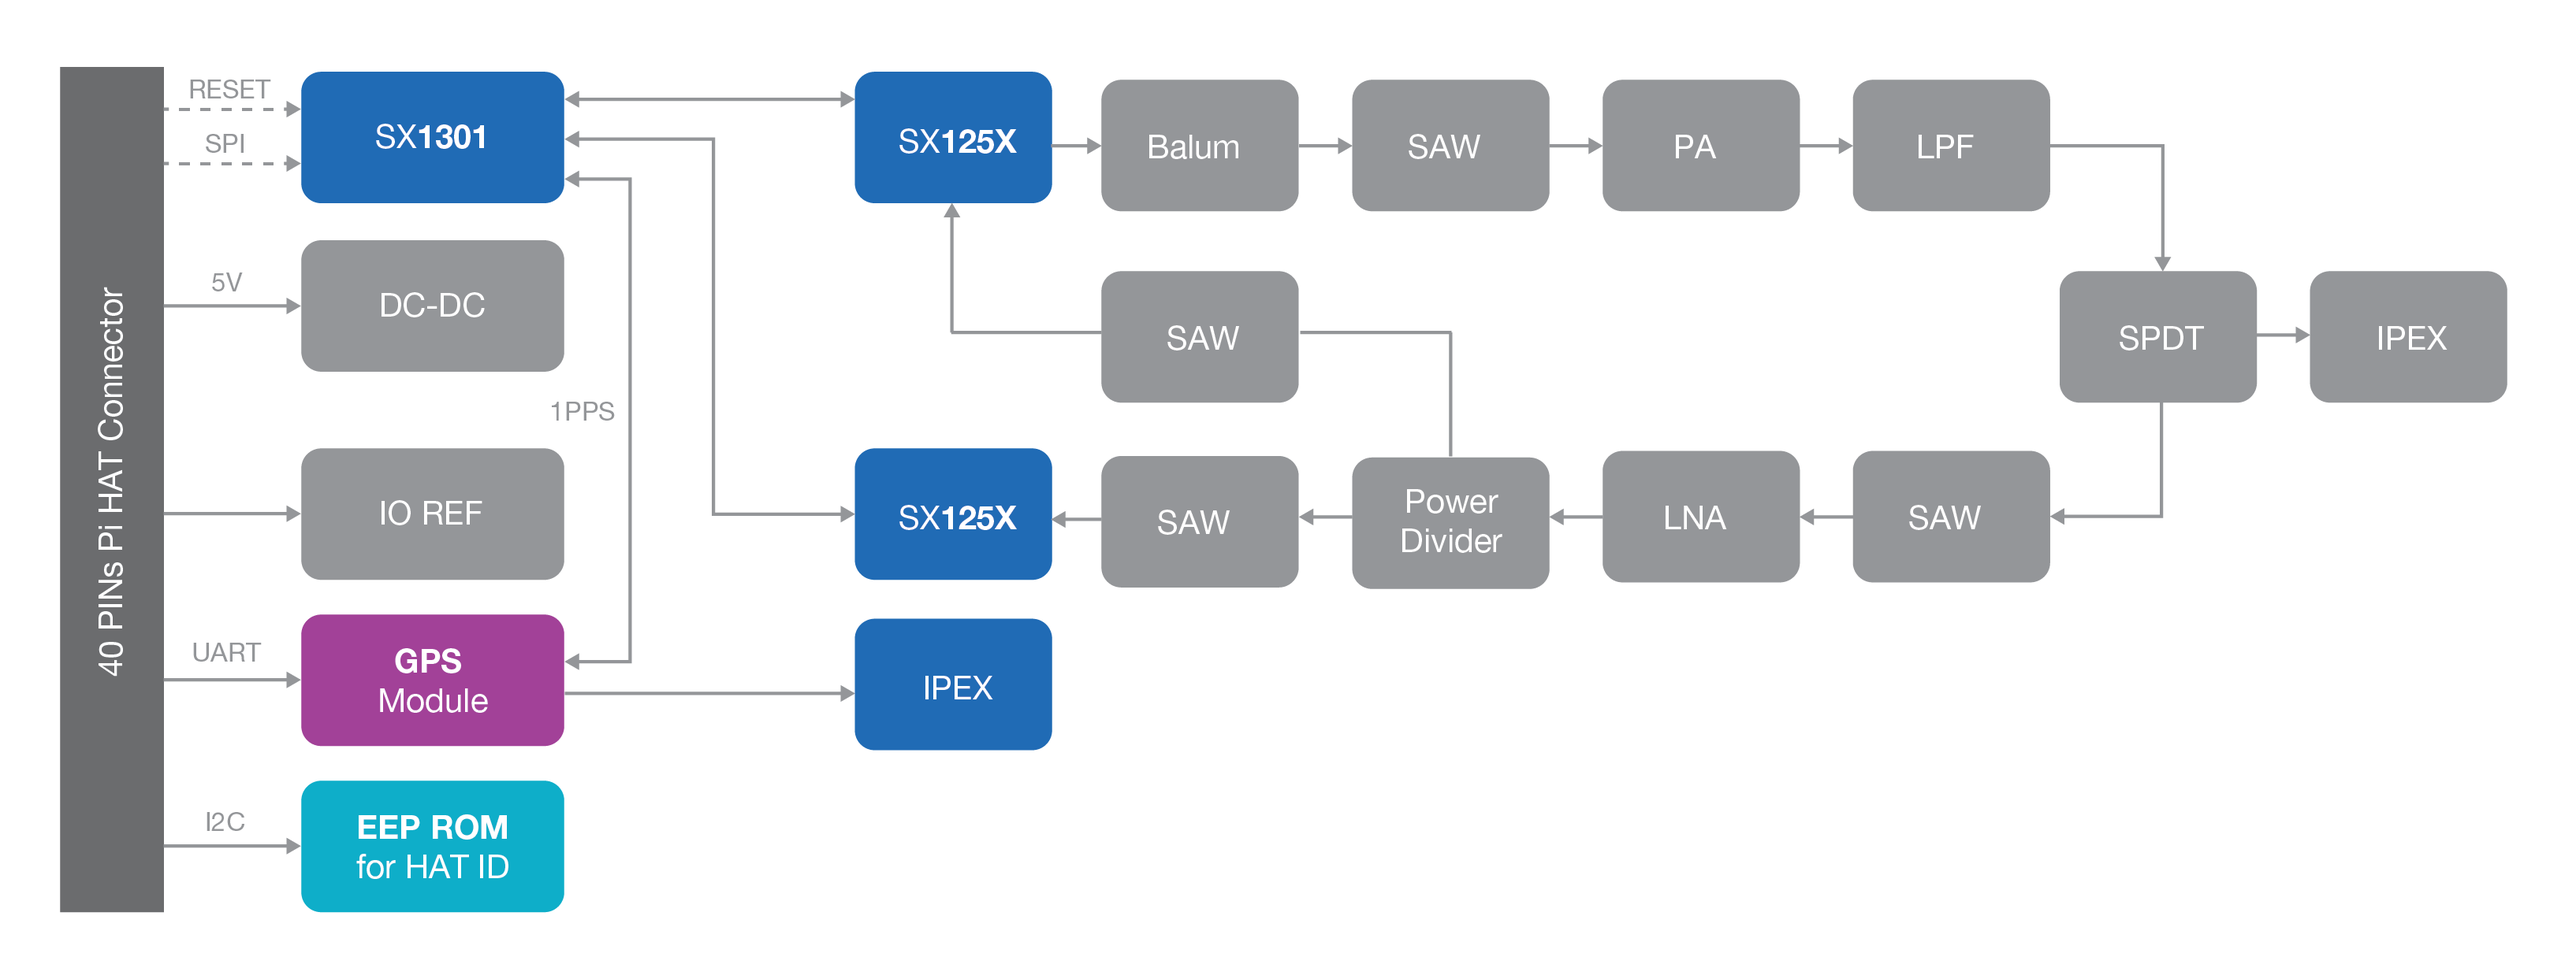
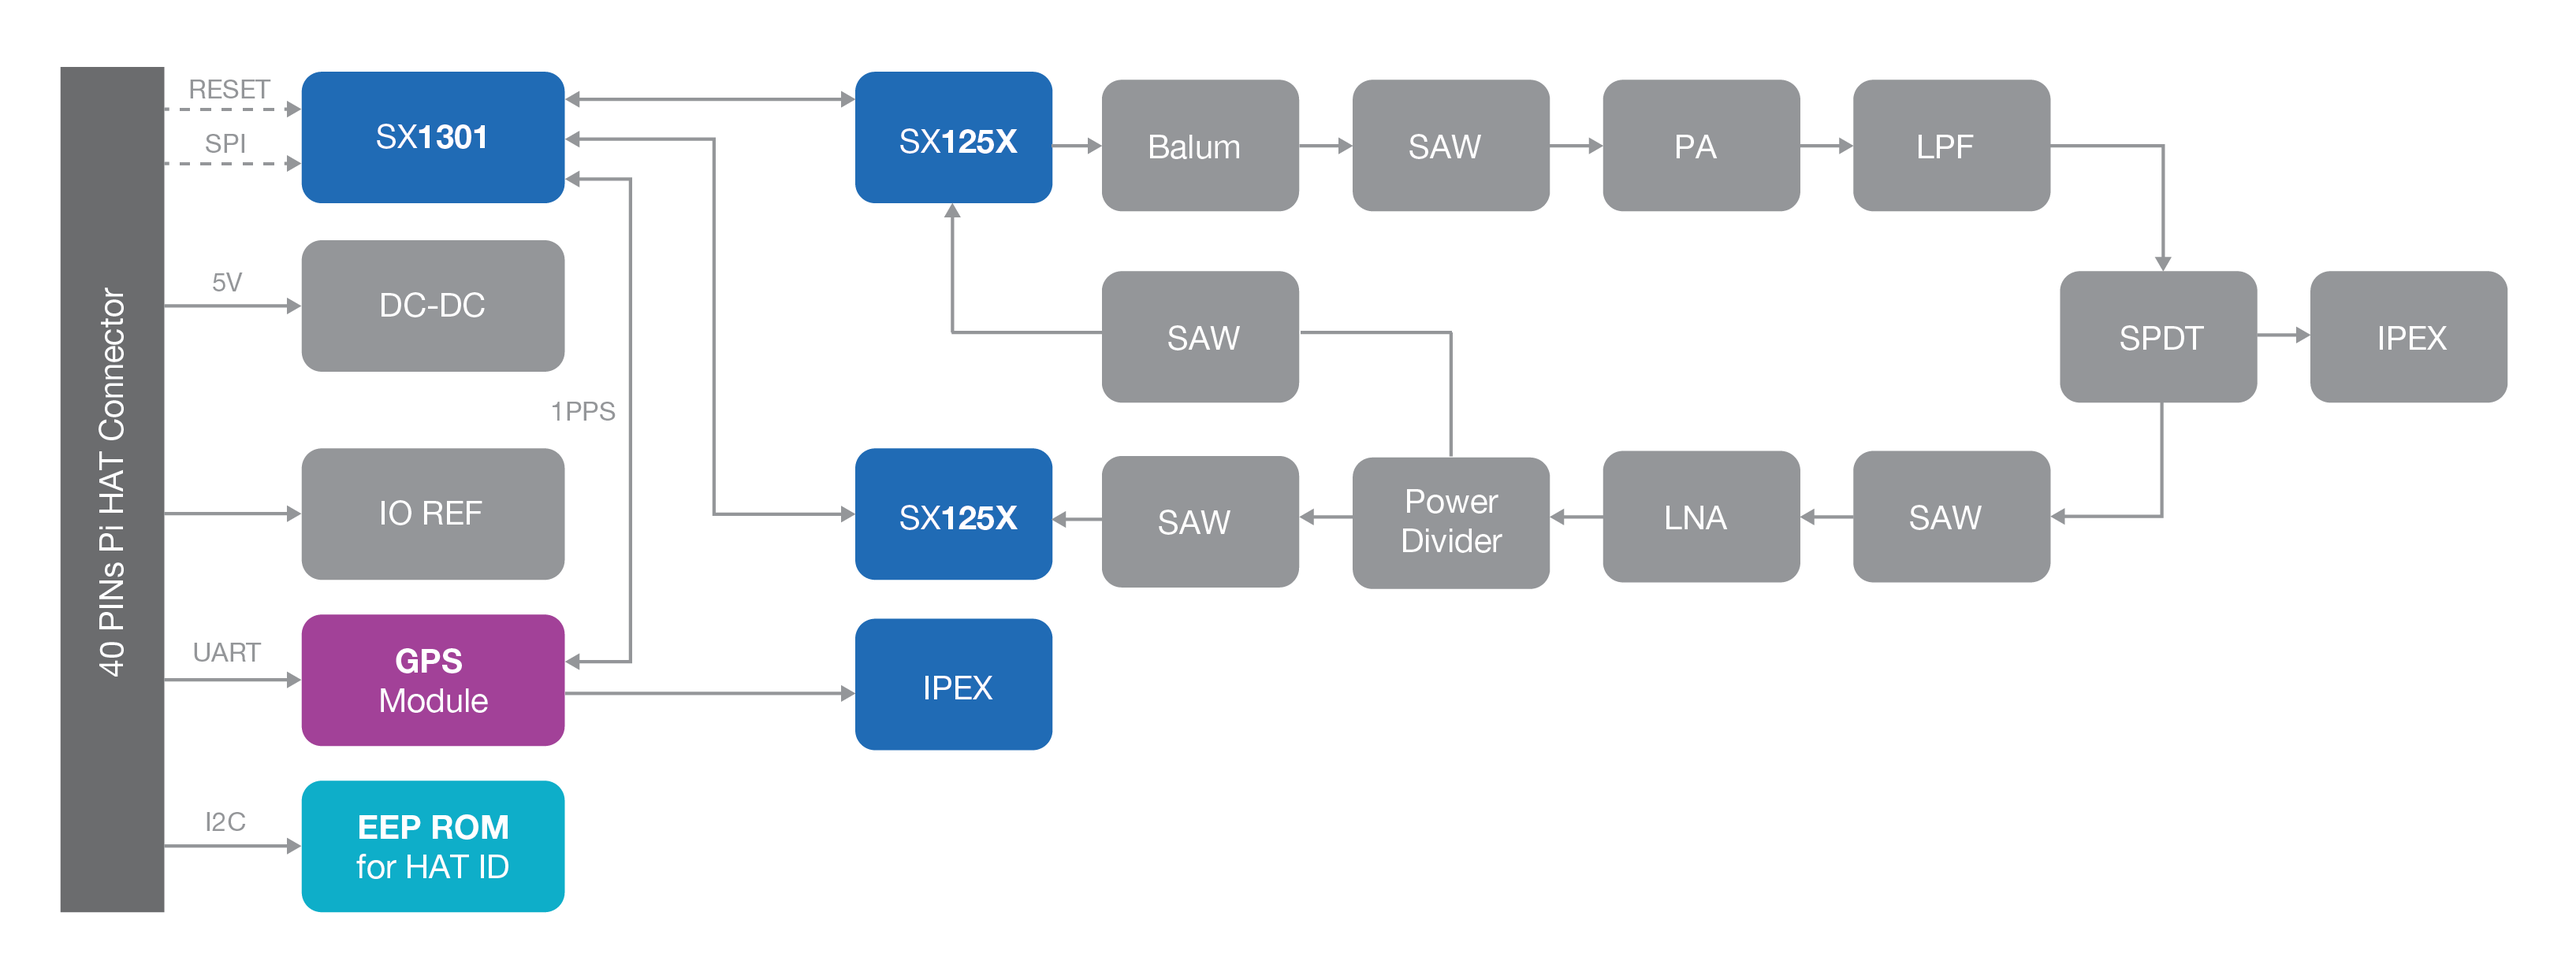
Updated the block diagram in all datasheet.

diff --git a/docs/en-us/datasheet/rak5205/schematics.md b/docs/en-us/datasheet/rak5205/schematics.md
@@ -3,83 +3,83 @@
 <rk-img
   src="/assets/images/datasheet/rak5205/rak5205-schematic-diagram-with-bq21040-chip.jpg"
   width="100%"
-  figure-number="16"
+  figure-number="17"
   caption="RAK5205 Schematic Diagram with BQ21040 chip"
 />
 
 <rk-img
   src="/assets/images/datasheet/rak5205/rak5205-schematic-diagram-with-rp104n331-chip.jpg"
   width="100%"
-  figure-number="17"
+  figure-number="18"
   caption="RAK5205 Schematic Diagram with RP104N331 chip"
 />
 
 <rk-img
   src="/assets/images/datasheet/rak5205/rak5205-schematic-diagram-with-cp2102-chip.jpg"
   width="100%"
-  figure-number="18"
+  figure-number="19"
   caption="RAK5205 Schematic Diagram with CP2102 chip"
 />
 
 <rk-img
   src="/assets/images/datasheet/rak5205/rak5205-schematic-diagram.jpg"
   width="100%"
-  figure-number="19"
+  figure-number="20"
   caption="RAK5205 Schematic Diagram"
 />
 
 <rk-img
   src="/assets/images/datasheet/rak5205/rak5205-schematic-diagram-2.jpg"
   width="60%"
-  figure-number="20"
+  figure-number="21"
   caption="RAK5205 Schematic Diagram"
 />
 
 <rk-img
   src="/assets/images/datasheet/rak5205/rak5205-schematic-diagram-3.jpg"
   width="60%"
-  figure-number="21"
+  figure-number="22"
   caption="RAK5205 Schematic Diagram"
 />
 
 <rk-img
   src="/assets/images/datasheet/rak5205/rak5205-schematic-diagram-4.jpg"
   width="60%"
-  figure-number="22"
+  figure-number="23"
   caption="RAK5205 Schematic Diagram"
 />
 
 <rk-img
   src="/assets/images/datasheet/rak5205/rak5205-schematic-diagram-5.jpg"
   width="60%"
-  figure-number="23"
+  figure-number="24"
   caption="RAK5205 Schematic Diagram"
 />
 
 <rk-img
   src="/assets/images/datasheet/rak5205/rak5205-schematic-diagram-6.jpg"
   width="80%"
-  figure-number="24"
+  figure-number="25"
   caption="RAK5205 Schematic Diagram"
 />
 
 <rk-img
   src="/assets/images/datasheet/rak5205/rak5205-schematic-diagram-7.jpg"
   width="80%"
-  figure-number="25"
+  figure-number="26"
   caption="RAK5205 Schematic Diagram"
 />
 
 <rk-img
   src="/assets/images/datasheet/rak5205/rak5205-schematic-diagram-8.jpg"
   width="70%"
-  figure-number="26"
+  figure-number="27"
   caption="RAK5205 Schematic Diagram"
 />
 
 <rk-img
   src="/assets/images/datasheet/rak5205/rak5205-schematic-diagram-9.jpg"
   width="100%"
-  figure-number="27"
+  figure-number="28"
   caption="RAK5205 Schematic Diagram"
 />

diff --git a/docs/en-us/datasheet/rak5205/antenna-specifications.md b/docs/en-us/datasheet/rak5205/antenna-specifications.md
@@ -9,7 +9,7 @@ The LoRa® Antenna and Interfaces are shown in the figure below:
 <rk-img
   src="/assets/images/datasheet/rak5205/rp-sma-male-connector-of-lora®-antenna.jpg"
   width="50%"
-  figure-number="10"
+  figure-number="11"
   caption="RP-SMA Male Connector of LoRa® Antenna"
 />
 
@@ -18,7 +18,7 @@ Here is the iPEX LoRa® Antenna Interface:
 <rk-img
   src="/assets/images/datasheet/rak5205/ipex-antenna-interface-for-lora®-antenna.jpg"
   width="75%"
-  figure-number="11"
+  figure-number="12"
   caption="iPex Antenna Interface for LoRa® Antenna"
 />
 
@@ -27,7 +27,7 @@ Here is the iPEX LoRa® Antenna Interface:
 <rk-img
   src="/assets/images/datasheet/rak5205/lora®-antenna-dimension.jpg"
   width="50%"
-  figure-number="12"
+  figure-number="13"
   caption="LoRa® Antenna Dimension"
 />
 
@@ -48,7 +48,7 @@ The GPS antenna and interfaces for RAK5205 tracker board is shown below:
 <rk-img
   src="/assets/images/datasheet/rak5205/sma-female-interface-for-gps.jpg"
   width="75%"
-  figure-number="13"
+  figure-number="14"
   caption="SMA Female Interface for GPS"
 />
 
@@ -57,7 +57,7 @@ Here is the iPEX GPS Antenna interface:
 <rk-img
   src="/assets/images/datasheet/rak5205/ipex-interface-for-gps-antenna.jpg"
   width="75%"
-  figure-number="14"
+  figure-number="15"
   caption="iPex Interface for GPS Antenna"
 />
 
@@ -66,7 +66,7 @@ Here is the iPEX GPS Antenna interface:
 <rk-img
   src="/assets/images/datasheet/rak5205/gps-antenna-dimension.jpg"
   width="50%"
-  figure-number="15"
+  figure-number="16"
   caption="GPS Antenna Dimension"
 />
 

diff --git a/docs/en-us/datasheet/rak831/interfaces.md b/docs/en-us/datasheet/rak831/interfaces.md
@@ -6,7 +6,7 @@
 The RAK831 includes Semtech’s SX1301 which is a digital baseband chip which includes a massive digital signal processing engine specifically designed to offer breakthrough gateway capabilities in the ISM bands worldwide. SX1301 integrates the LoRa® concentrator IP.
 
 <rk-img
-  src="/assets/images/datasheet/rak831/Block_Diagrams_SX1301.png"
+  src="/assets/images/datasheet/rak831/block-diagram-sx1301.png"
   width="100%"
   figure-number="5"
   caption="SX1301 Chip Block Diagram"
@@ -23,7 +23,7 @@ It is highly recommended to fully re-use the latest HAL as provided by Semtech o
 ###### Block Diagram
 
 <rk-img
-  src="/assets/images/datasheet/rak831/Block_Diagrams_RAK831.png"
+  src="/assets/images/datasheet/rak831/block-diagram.png"
   width="100%"
   figure-number="6"
   caption="RAK831 LPWAN Gateway Block Diagram"

diff --git a/docs/en-us/datasheet/rak5205/interfaces.md b/docs/en-us/datasheet/rak5205/interfaces.md
@@ -1,11 +1,24 @@
 ## Interfaces
 
+### Block Diagram
+
+In figure 4, it shows the block diagram of the external interfaces of RAK4200 LPWAN Module. 
+
+
+<rk-img
+  src="/assets/images/datasheet/rak5205/block-diagram.png"
+  width="100%"
+  figure-number="4"
+  caption="RAK5205 Functional Diagram"
+/>
+
+
 ### Functional Diagram
 
 <rk-img
   src="/assets/images/datasheet/rak5205/rak5205-functional-diagram.png"
   width="100%"
-  figure-number="4"
+  figure-number="5"
   caption="RAK5205 Functional Diagram"
 />
 
@@ -34,7 +47,7 @@ A Standard Micro-B USB compliant with USB 2.0 standard specification is used to 
 <rk-img
   src="/assets/images/datasheet/rak5205/micro-usb-pinout.png"
   width="25%"
-  figure-number="5"
+  figure-number="6"
   caption="Micro USB Pinout"
 />
 

diff --git a/docs/en-us/datasheet/rak813/interfaces.md b/docs/en-us/datasheet/rak813/interfaces.md
@@ -5,7 +5,7 @@
 The block diagram of the module is depicted in the figure below.
 
 <rk-img
-  src="/assets/images/datasheet/rak813/interfaces/dqopdsxxhjhaq3gbgvcb.jpg"
+  src="/assets/images/datasheet/rak813/interfaces/block-diagram.png"
   width="100%"
   figure-number="3"
   caption="RAK813 Block Diagram"
@@ -14,7 +14,7 @@ The block diagram of the module is depicted in the figure below.
 ### System Diagram
 
 <rk-img
-  src="/assets/images/datasheet/rak813/interfaces/dtqeie2vpjtingeltetg.png"
+  src="/assets/images/datasheet/rak813/interfaces/system-diagram.png"
   width="100%"
   figure-number="4"
   caption="System Diagram"

diff --git a/docs/en-us/datasheet/rak5205/power-consumption.md b/docs/en-us/datasheet/rak5205/power-consumption.md
@@ -17,7 +17,7 @@ The RAK5205 LoRa® Tracker Board has an operating voltage of 3.7V. It can be pow
 <rk-img
   src="/assets/images/datasheet/rak5205/powered-by-micro-usb.png"
   width="75%"
-  figure-number="7"
+  figure-number="8"
   caption="Powered by Micro USB"
 />
 
@@ -26,6 +26,6 @@ The board can also be powered by a 3.7V Li-Ion battery. You can connect a 5V sol
 <rk-img
   src="/assets/images/datasheet/rak5205/rak5205-with-5v-solar-panel-plastic-enclosure-and-li-ion-battery.png"
   width="50%"
-  figure-number="8"
+  figure-number="9"
   caption="RAK5205 With 5V Solar Panel, Plastic Enclosure and Li-ion Battery"
 />

diff --git a/docs/en-us/datasheet/rak2287/interfaces.md b/docs/en-us/datasheet/rak2287/interfaces.md
@@ -5,7 +5,7 @@
 RAK2287 card is equipped with one SX1302 chip and two SX1250. The first chip is utilized for RF signal and the core of the device. While the latter, provides the related LoRa® modem and processing functionalities. Additional signal conditioning circuitry is implemented for PCI Express Mini Card compliance, and one UFL connectors are available for external antennas integration.
 
 <rk-img
-  src="/assets/images/datasheet/rak2287/interfaces/block_diagram.png"
+  src="/assets/images/datasheet/rak2287/interfaces/block-diagram.png"
   width="100%"
   figure-number="4"
   caption="RAK2287 Block Diagram"

diff --git a/docs/en-us/datasheet/rak5010/interfaces.md b/docs/en-us/datasheet/rak5010/interfaces.md
@@ -5,10 +5,10 @@
 The block diagram below shows the internal architecture and external interfaces of the RAK5010 board.
 
 <rk-img
-  src="/assets/images/datasheet/rak5010/block_diagram.jpg"
+  src="/assets/images/datasheet/rak5010/block-diagram.png"
   width="100%"
   figure-number="8"
-  caption="Block Diagram of RAK5010"
+  caption="RAK5010 Block Diagram"
 />
 
 ### Interfaces

diff --git a/docs/en-us/datasheet/rak4600/block-diagram.md b/docs/en-us/datasheet/rak4600/block-diagram.md
@@ -3,8 +3,8 @@
 The Block diagram below shows the external interfaces of the RAK4600 LPWAN Module.
 
 <rk-img
-  src="/assets/images/datasheet/rak4600/block-diagram/xkxaew5skkeofmgfrzie.jpg"
+  src="/assets/images/datasheet/rak4600/block-diagram/xkxaew5skkeofmgfrzie.png"
   width="100%"
   figure-number="3"
-  caption="Block Diagram"
+  caption="RAK4600 Block Diagram"
 />

diff --git a/docs/en-us/datasheet/rak4260/block-diagram.md b/docs/en-us/datasheet/rak4260/block-diagram.md
@@ -3,7 +3,7 @@
 Shown below is the functional block diagram of the RAK4260 composed of different interfaces for the specific functionalities set in the product overview.
 
 <rk-img
-  src="/assets/images/datasheet/rak4260/block_diagram.png"
+  src="/assets/images/datasheet/rak4260/block-diagram.png"
   width="100%"
   figure-number="4"
   caption="RAK4260 Interfaces"

diff --git a/docs/en-us/datasheet/rak7249/block-diagram.md b/docs/en-us/datasheet/rak7249/block-diagram.md
@@ -3,9 +3,9 @@
 The image below shows the block diagram for RAK7249 Macro Outdoor Gateway with MT7628 chip as the core.
 
 <rk-img
-  src="/assets/images/datasheet/rak7249/block-diagram.jpg"
+  src="/assets/images/datasheet/rak7249/block-diagram.png"
   width="100%"
   figure-number="5"
-  caption="Block Diagram"
+  caption="RAK7249 Block Diagram"
 />
 

diff --git a/docs/en-us/datasheet/rak811/interfaces.md b/docs/en-us/datasheet/rak811/interfaces.md
@@ -5,8 +5,8 @@
 The block diagram of module is depicted in the figure below.
 
 <rk-img
-  src="/assets/images/datasheet/rak811/interfaces/svzmiikkhn3yiz0nfrf3.jpg"
+  src="/assets/images/datasheet/rak811/interfaces/block-diagram.png"
   width="100%"
   figure-number="2"
-  caption="RAK811 System Diagram"
+  caption="RAK811 System Block Diagram"
 />
